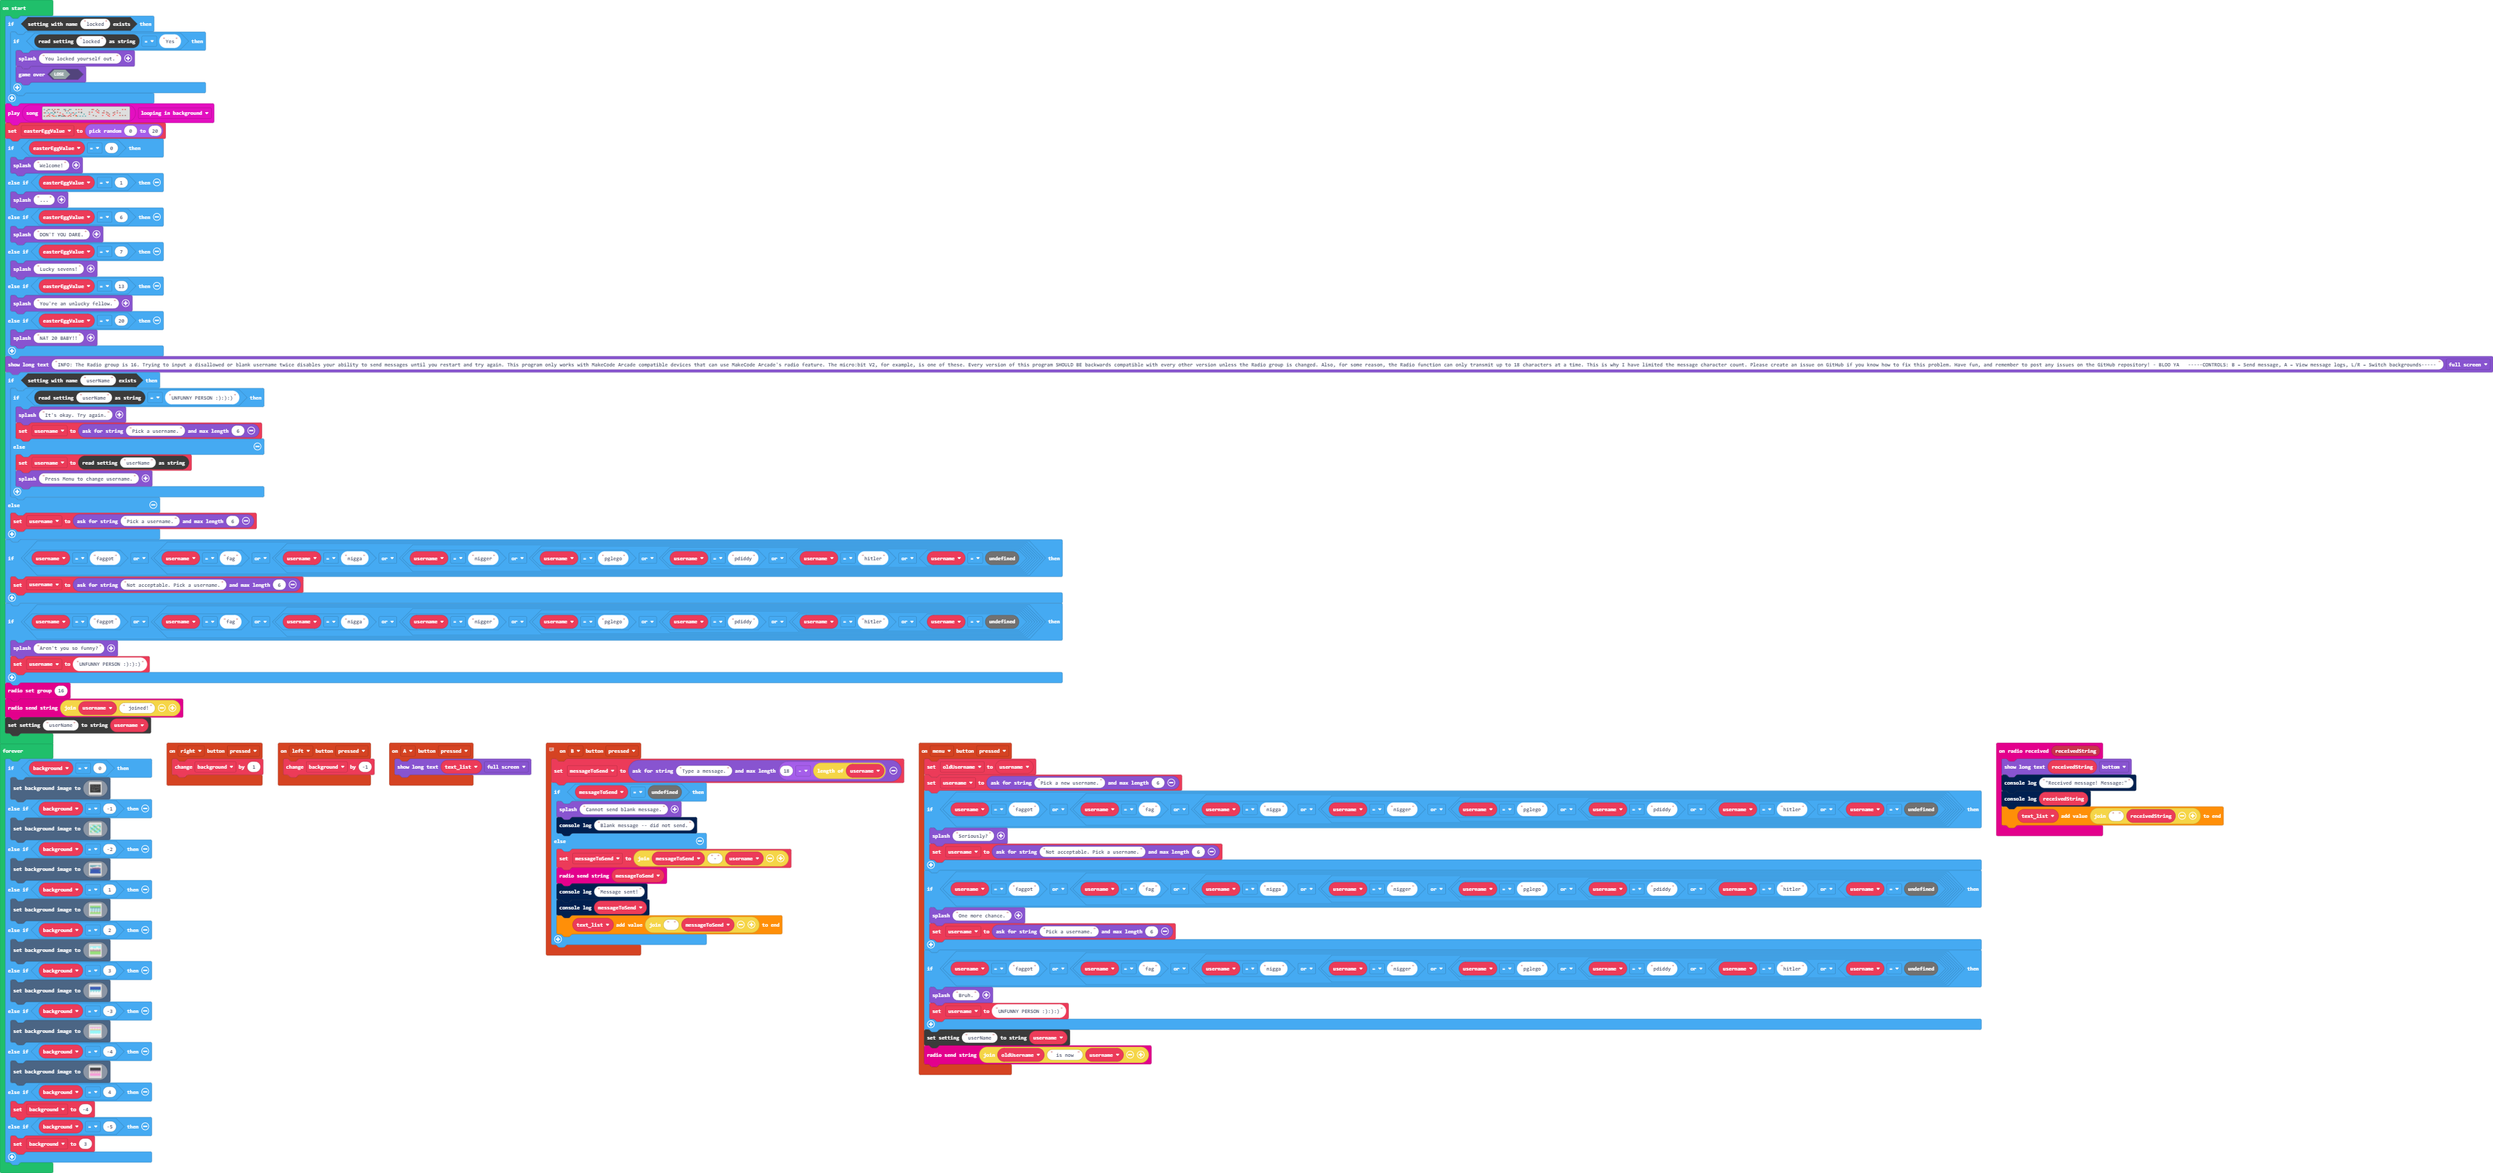
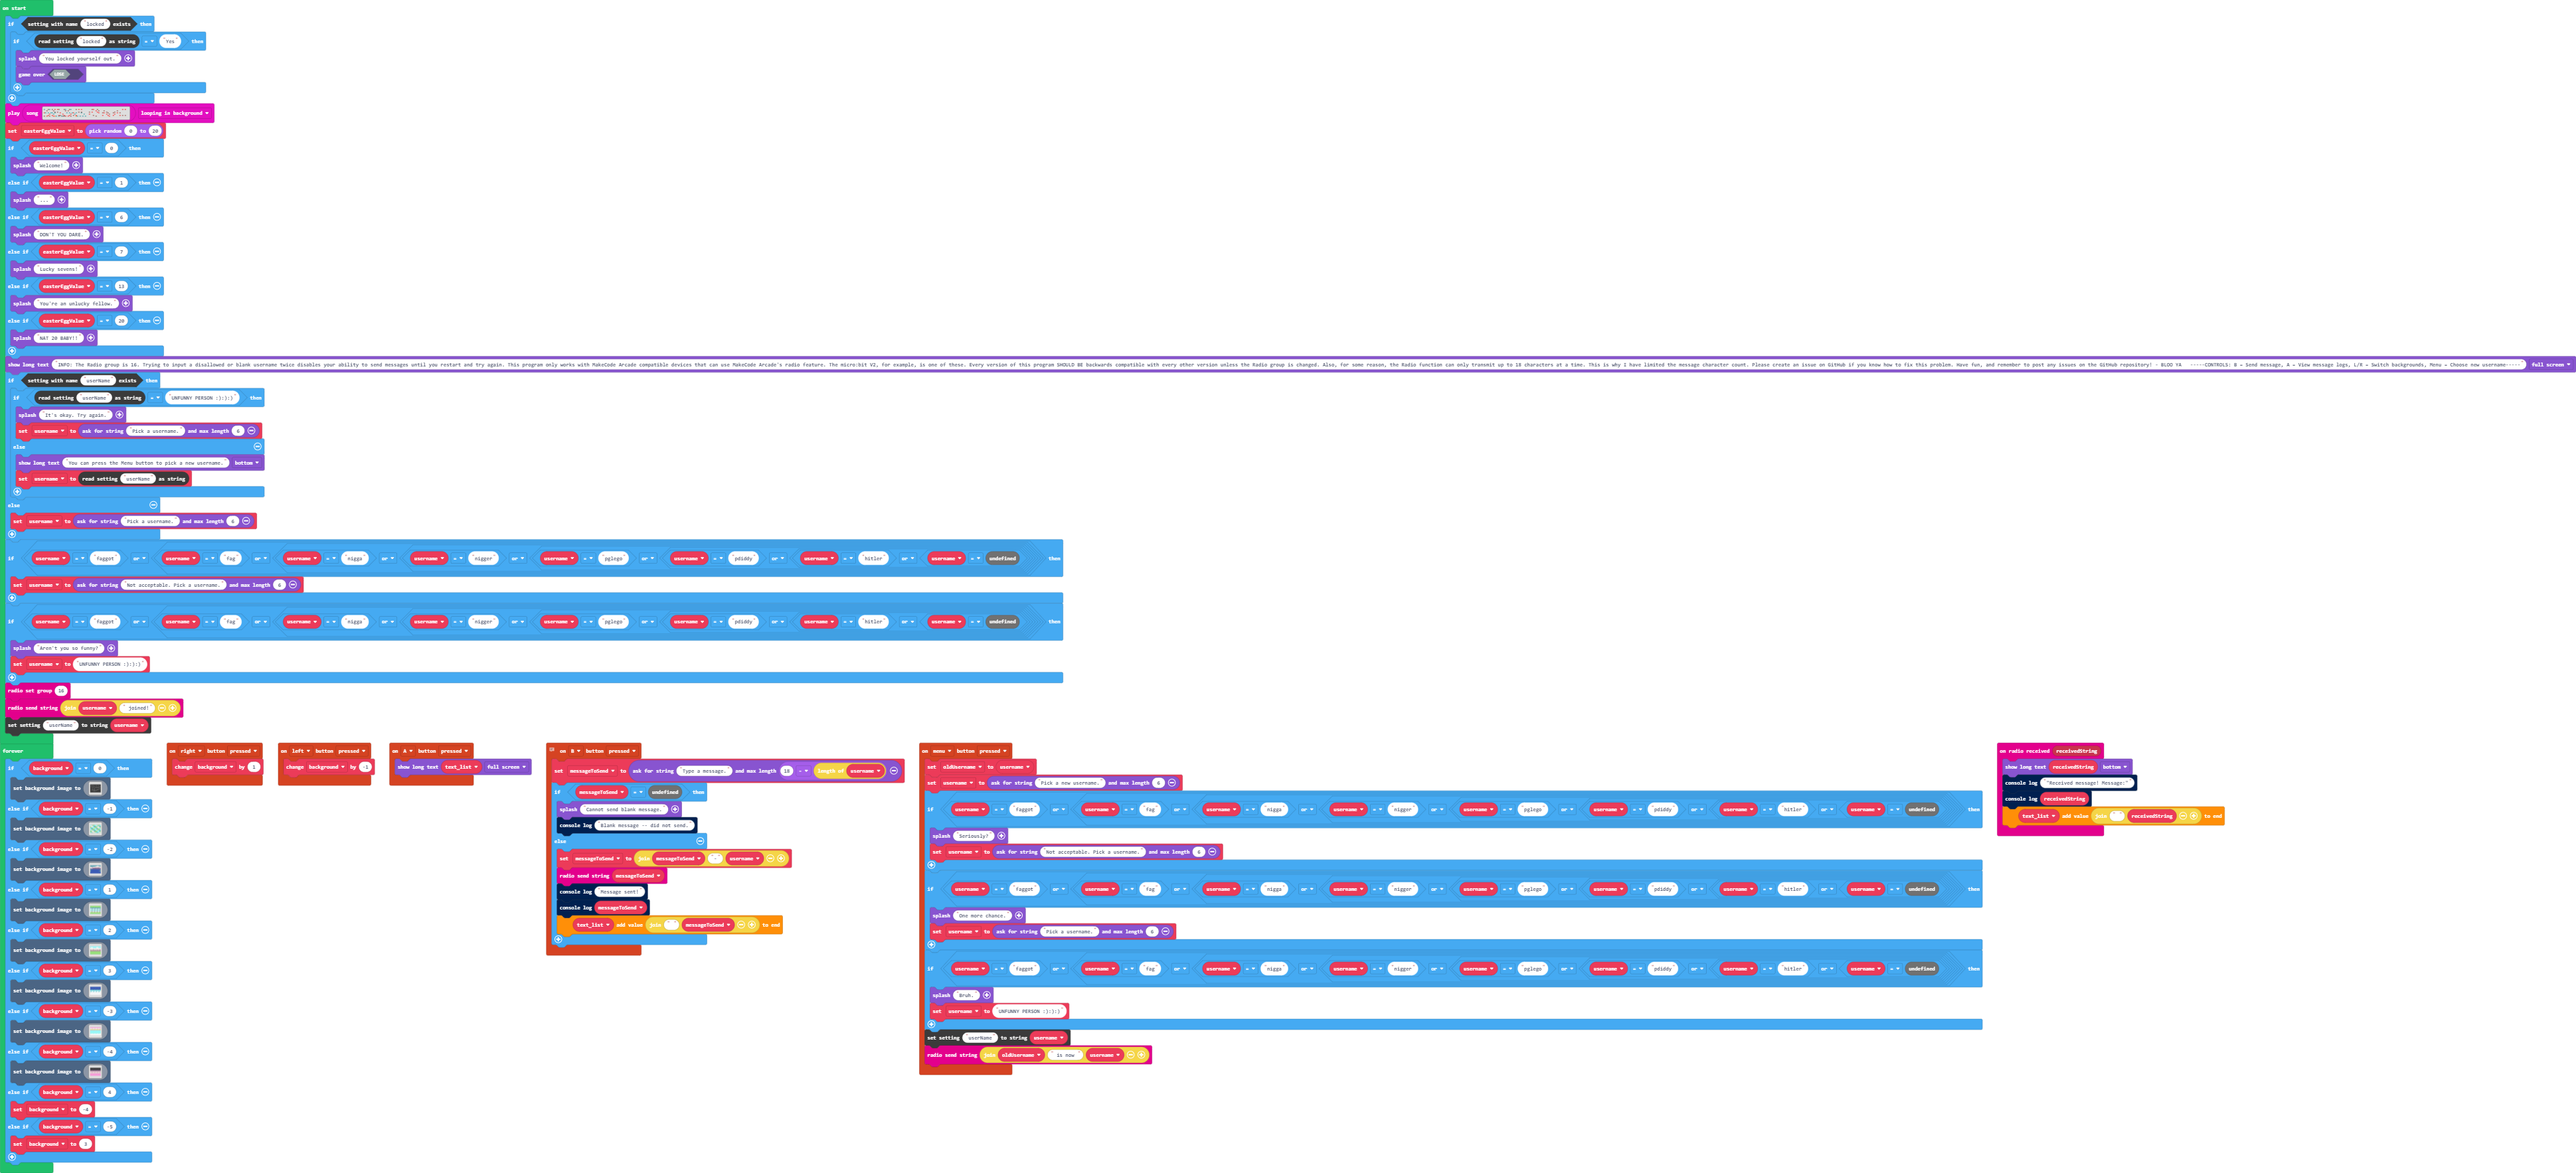
Made username changes more obvious

Changed region(s): [[0.0, 0.0934, 0.9036, 0.9649], [0.0, 0.0, 0.0935, 0.0623], [0.779, 0.8715, 0.8101, 0.9027]]

diff --git a/main.ts b/main.ts
@@ -71,14 +71,14 @@ if (easterEggValue == 0) {
 } else if (easterEggValue == 20) {
     game.splash("NAT 20 BABY!!")
 }
-game.showLongText("INFO: The Radio group is 16. Trying to input a disallowed or blank username twice disables your ability to send messages until you restart and try again. This program only works with MakeCode Arcade compatible devices that can use MakeCode Arcade's radio feature. The micro:bit V2, for example, is one of these. Every version of this program SHOULD BE backwards compatible with every other version unless the Radio group is changed. Also, for some reason, the Radio function can only transmit up to 18 characters at a time. This is why I have limited the message character count. Please create an issue on GitHub if you know how to fix this problem. Have fun, and remember to post any issues on the GitHub repository! - BLOO YA   -----CONTROLS: B = Send message, A = View message logs, L/R = Switch backgrounds-----", DialogLayout.Full)
+game.showLongText("INFO: The Radio group is 16. Trying to input a disallowed or blank username twice disables your ability to send messages until you restart and try again. This program only works with MakeCode Arcade compatible devices that can use MakeCode Arcade's radio feature. The micro:bit V2, for example, is one of these. Every version of this program SHOULD BE backwards compatible with every other version unless the Radio group is changed. Also, for some reason, the Radio function can only transmit up to 18 characters at a time. This is why I have limited the message character count. Please create an issue on GitHub if you know how to fix this problem. Have fun, and remember to post any issues on the GitHub repository! - BLOO YA   -----CONTROLS: B = Send message, A = View message logs, L/R = Switch backgrounds, Menu = Choose new username-----", DialogLayout.Full)
 if (blockSettings.exists("userName")) {
     if (blockSettings.readString("userName") == "UNFUNNY PERSON :):):)") {
         game.splash("It's okay. Try again.")
         username = game.askForString("Pick a username.", 6)
     } else {
+        game.showLongText("You can press the Menu button to pick a new username.", DialogLayout.Bottom)
         username = blockSettings.readString("userName")
-        game.splash("Press Menu to change username.")
     }
 } else {
     username = game.askForString("Pick a username.", 6)
